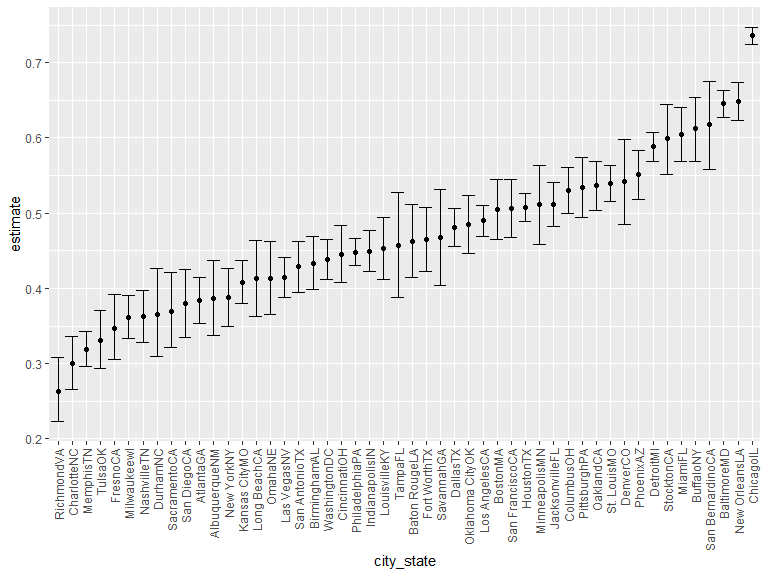
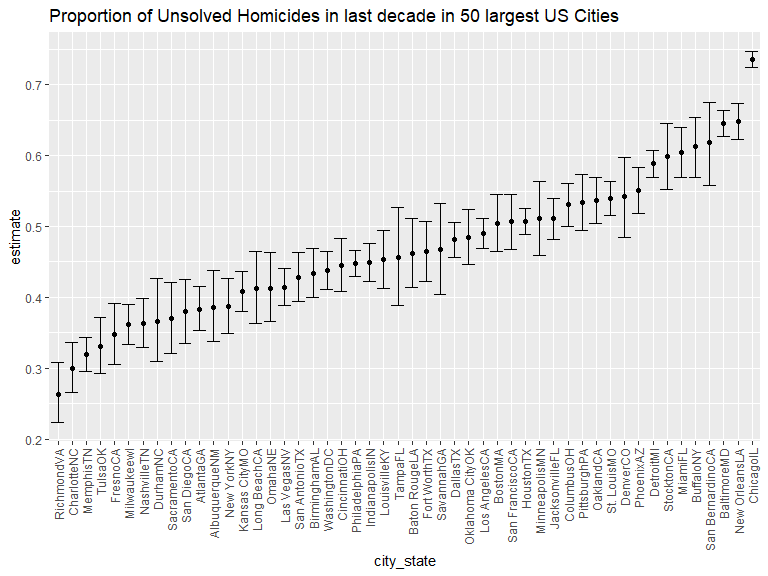
add comments/content

diff --git a/p8105_hw5_xc2610.md b/p8105_hw5_xc2610.md
@@ -4,7 +4,14 @@ Xuanhe Chen
 
 ## Problem 1
 
+The raw data contains more than 52,000 criminal homicides Washington
+Post collected over the past decade in 50 of the largest American
+cities. The data contains 12 columns, includes: UID, report data,
+vitim’s first, last name, race, age, sex, city and state and exact
+location (latitude and longidute) being found, and disposition.
+
 ``` r
+# load and edit data, create the city_state variable required. 
 homicide_df = 
   read_csv("./data/homicide-data.csv", na = c("", "Unknown")) %>%
   mutate(
@@ -30,10 +37,12 @@ homicide_df =
     ## i Specify the column types or set `show_col_types = FALSE` to quiet this message.
 
 ``` r
+# pull the reqired data
 baltimore_df =
   homicide_df %>%
   filter(city_state == "BaltimoreMD")
 
+# make a test on the data
 baltimore_summary =
   baltimore_df %>%
   summarize(
@@ -56,6 +65,7 @@ baltimore_test %>%
     ## 1    0.646      239. 6.46e-54         1    0.628     0.663 1-sample~ two.sided
 
 ``` r
+# create a function to run test on each city
 prop_test_function = function(city_df) {
   
   city_summary =
@@ -75,6 +85,7 @@ prop_test_function = function(city_df) {
 ```
 
 ``` r
+# test the test
 prop_test_function(baltimore_df)
 ```
 
@@ -109,6 +120,7 @@ homicide_df %>%
     ## 0.3862434
 
 ``` r
+# map the test to all cities and edit data format
 results_df =
   homicide_df %>%
   nest(data = uid:resolution) %>%
@@ -123,12 +135,14 @@ results_df =
 ```
 
 ``` r
+# plot the result with error bars
 results_df %>%
   mutate(city_state = fct_reorder(city_state, estimate)) %>%
   ggplot(aes(x = city_state, y = estimate)) +
   geom_point() +
   geom_errorbar(aes(ymin = conf.low, ymax = conf.high)) +
-  theme(axis.text.x = element_text(angle = 90, vjust = 0.5, hjust = 1))
+  theme(axis.text.x = element_text(angle = 90, vjust = 0.5, hjust = 1)) +
+  ggtitle("Proportion of Unsolved Homicides in last decade in 50 largest US Cities")
 ```
 
 <img src="p8105_hw5_xc2610_files/figure-gfm/unnamed-chunk-6-1.png" width="90%" />
@@ -136,36 +150,48 @@ results_df %>%
 ## Problem 2
 
 ``` r
+# read each files address
 file_names <- list.files("./data/P2_data/", full.names = TRUE)
 
+# map a function binding address and each file together
 file_combined <- purrr::map_df(file_names, function(x) {
   data <- read_csv(x)
     cbind(arm_id = x, data)
     })
 
+# drop unnecessary parts in file names
 file_combined <- 
   file_combined %>% 
   mutate(arm_id = str_remove(arm_id, "./data/P2_data/")) %>%
   mutate(arm_id = str_remove(arm_id, ".csv"))
 
+# turn the data frame from wide to long for plotting
 file_combined_long <- gather(file_combined, week, observations, week_1:week_8, factor_key=TRUE)
 ```
 
 ``` r
+#plot the data
   ggplot(file_combined_long, aes(x = week, y = observations, group = arm_id, color = arm_id)) +  geom_line() + geom_point() + theme_bw() + ggtitle("Observations Over Time for Control and Experimental Subjects")
 ```
 
 <img src="p8105_hw5_xc2610_files/figure-gfm/unnamed-chunk-8-1.png" width="90%" />
 
+From the plot, we can see that subjects in the control arm have
+significantly lower average observation measures than experimental arm.
+The experimental subjects also have a trend of rising over time, which
+wasn’t obvious in the subjects of control arm.
+
 ## Problem 3
 
 ``` r
+#  loads the iris dataset from the tidyverse package and introduces some missing values in each column
 set.seed(10)
 
 iris_with_missing = iris %>% 
   map_df(~replace(.x, sample(1:150, 20), NA)) %>%
   mutate(Species = as.character(Species))
 
+# visualize the data as table
 knitr::kable(iris_with_missing)
 ```
 
@@ -323,24 +349,29 @@ knitr::kable(iris_with_missing)
 |          5.9 |         3.0 |          5.1 |         1.8 | virginica  |
 
 ``` r
-fill_in_missing = function(vector) {
+# create a function to replace the NA's with proper values
+
+fill_in_missing = function(vector) { # function take vector as parameter
   
+  # if the parameter is numeric, replace NAs with the mean of exist values
   if(is.numeric(vector)) {
-    vector[is.na(vector)] <-mean(vector, na.rm=TRUE)
+    vector[is.na(vector)] <- mean(vector, na.rm=TRUE)
   }
   
+  # if the parameter is character, replace NAs with "virginica"
   if(is.character(vector)){
     vector[is.na(vector)] <- "virginica"
   }
   
-  return(vector)
+  return(vector) # return updated vector
 }
-# map to each column
 ```
 
 ``` r
+# map the function to the whole data frame
 iris_filled <- map_df(iris_with_missing, fill_in_missing)
 
+# visualize the data as table
 knitr::kable(iris_filled)
 ```
 
